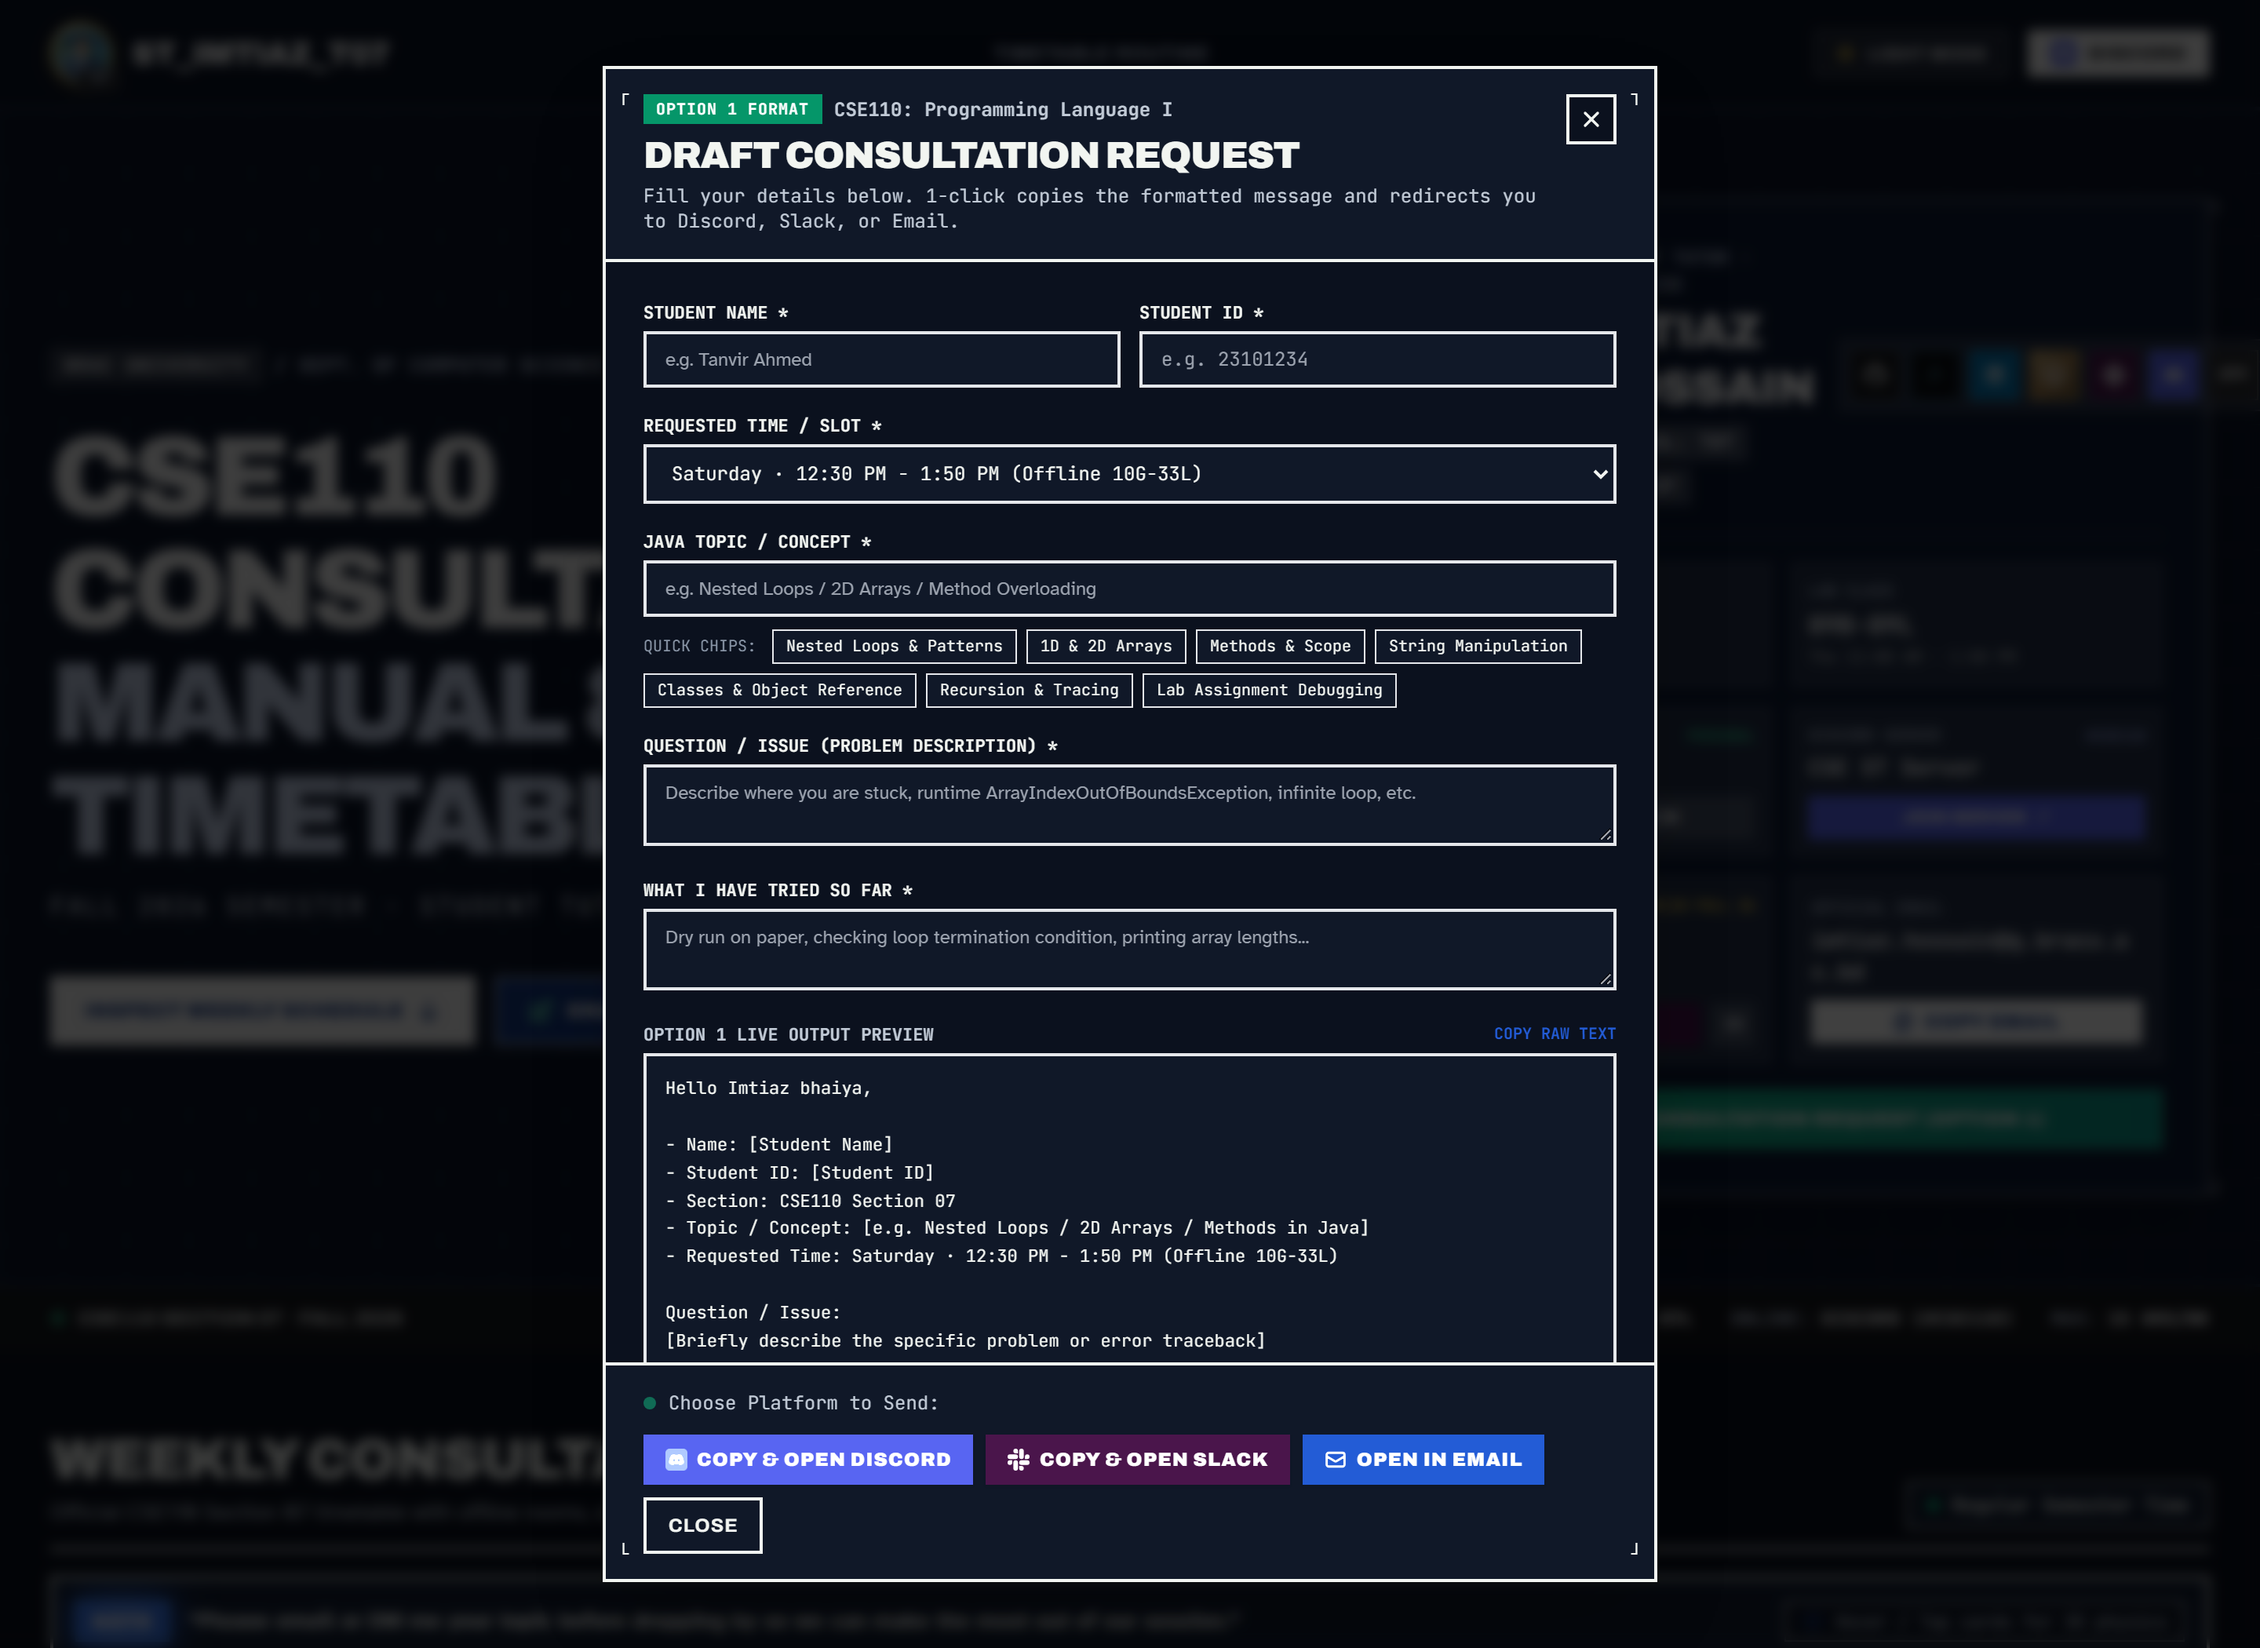
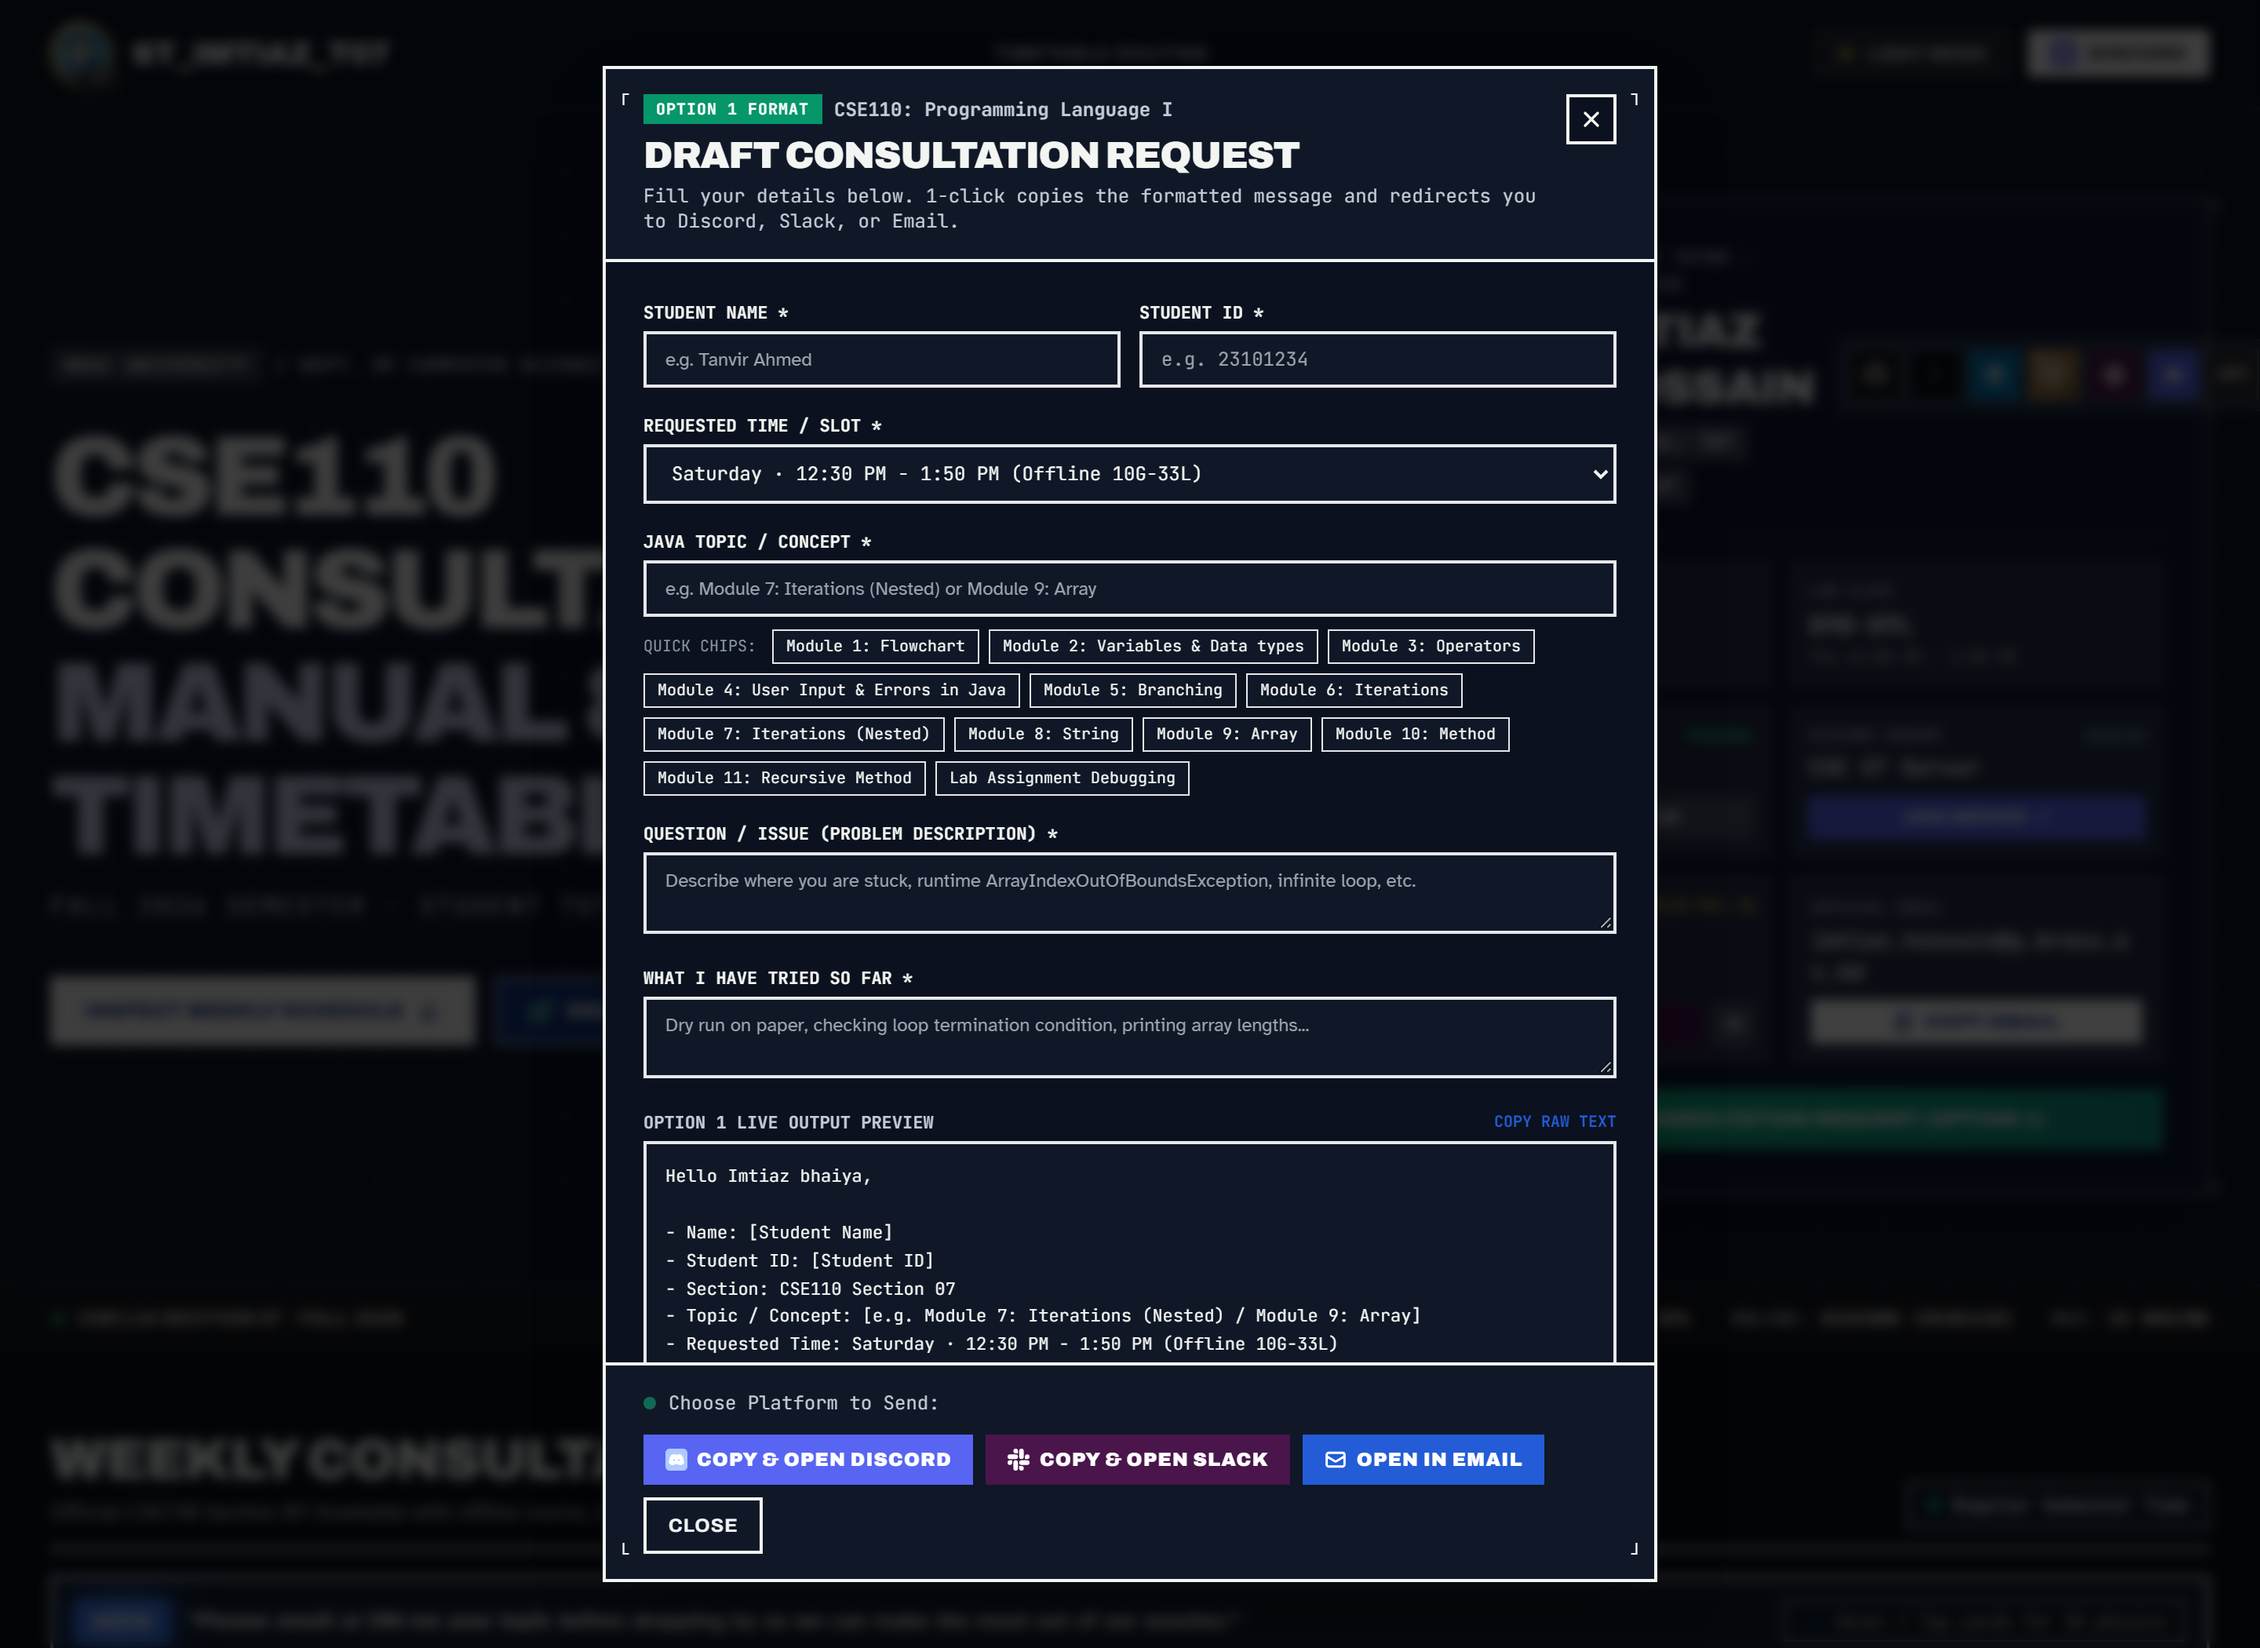
feat: update Option 1 composer quick chips with official CSE110 syllabus modules

Changed region(s): [[0.2812, 0.3405, 0.7188, 0.8357]]

diff --git a/src/App.tsx b/src/App.tsx
@@ -43,12 +43,17 @@ const CONSULTATION_SLOT_OPTIONS = [
 ];
 
 const JAVA_TOPIC_PRESETS = [
-  'Nested Loops & Patterns',
-  '1D & 2D Arrays',
-  'Methods & Scope',
-  'String Manipulation',
-  'Classes & Object Reference',
-  'Recursion & Tracing',
+  'Module 1: Flowchart',
+  'Module 2: Variables & Data types',
+  'Module 3: Operators',
+  'Module 4: User Input & Errors in Java',
+  'Module 5: Branching',
+  'Module 6: Iterations',
+  'Module 7: Iterations (Nested)',
+  'Module 8: String',
+  'Module 9: Array',
+  'Module 10: Method',
+  'Module 11: Recursive Method',
   'Lab Assignment Debugging',
 ];
 
@@ -349,7 +354,7 @@ export default function App() {
   const generateOption1Message = () => {
     const name = composerName.trim() || '[Student Name]';
     const id = composerId.trim() || '[Student ID]';
-    const topic = composerTopic.trim() || '[e.g. Nested Loops / 2D Arrays / Methods in Java]';
+    const topic = composerTopic.trim() || '[e.g. Module 7: Iterations (Nested) / Module 9: Array]';
     const slot = composerSlot || '[Selected Slot]';
     const question = composerQuestion.trim() || '[Briefly describe the specific problem or error traceback]';
     const attempts = composerAttempts.trim() || '[Mention your initial logic or attempts]';
@@ -1675,7 +1680,7 @@ export default function App() {
                   </label>
                   <input
                     type="text"
-                    placeholder="e.g. Nested Loops / 2D Arrays / Method Overloading"
+                    placeholder="e.g. Module 7: Iterations (Nested) or Module 9: Array"
                     value={composerTopic}
                     onChange={(e) => setComposerTopic(e.target.value)}
                     className="w-full px-3 py-2 bg-[var(--paper-2)] border-2 border-[var(--ink)]/40 focus:border-[var(--blue)] rounded-xs font-sans text-xs text-[var(--ink)] outline-hidden transition-colors mb-2"
@@ -1687,7 +1692,11 @@ export default function App() {
                         key={preset}
                         type="button"
                         onClick={() => setComposerTopic(preset)}
-                        className="px-2 py-0.5 rounded-xs bg-[var(--paper-2)] hover:bg-[var(--blue)] hover:text-white border border-[var(--ink)]/30 font-mono text-[10px] transition-colors cursor-pointer"
+                        className={`px-2 py-0.5 rounded-xs font-mono text-[10px] transition-all cursor-pointer ${
+                          composerTopic === preset
+                            ? 'bg-[#1d49a7] text-white border-2 border-[#163a86] dark:bg-blue-600 dark:border-blue-300 font-bold shadow-xs'
+                            : 'bg-[var(--paper-2)] hover:bg-[var(--blue)]/15 text-[var(--ink)] border border-[var(--ink)]/30'
+                        }`}
                       >
                         {preset}
                       </button>

diff --git a/README.md b/README.md
@@ -63,7 +63,7 @@ Hello Imtiaz bhaiya,
 - Name: [Student Name]
 - Student ID: [Student ID]
 - Section: CSE110 Section 07
-- Topic / Concept: [e.g. Nested Loops / 2D Arrays / Methods in Java]
+- Topic / Concept: [e.g. Module 7: Iterations (Nested) / Module 9: Array]
 - Requested Time: [Selected Slot]
 
 Question / Issue:
@@ -72,6 +72,20 @@ Question / Issue:
 What I have tried so far:
 [Mention your initial logic or attempts]
 ```
+
+### Official CSE110 Course Modules (Interactive Quick Chips)
+Students can select their current syllabus module with a single click in the composer:
+* **Module 1**: Flowchart
+* **Module 2**: Variables & Data types
+* **Module 3**: Operators
+* **Module 4**: User Input & Errors in Java
+* **Module 5**: Branching
+* **Module 6**: Iterations
+* **Module 7**: Iterations (Nested)
+* **Module 8**: String
+* **Module 9**: Array
+* **Module 10**: Method
+* **Module 11**: Recursive Method
 
 ### One-Click Redirection Workflow
 
